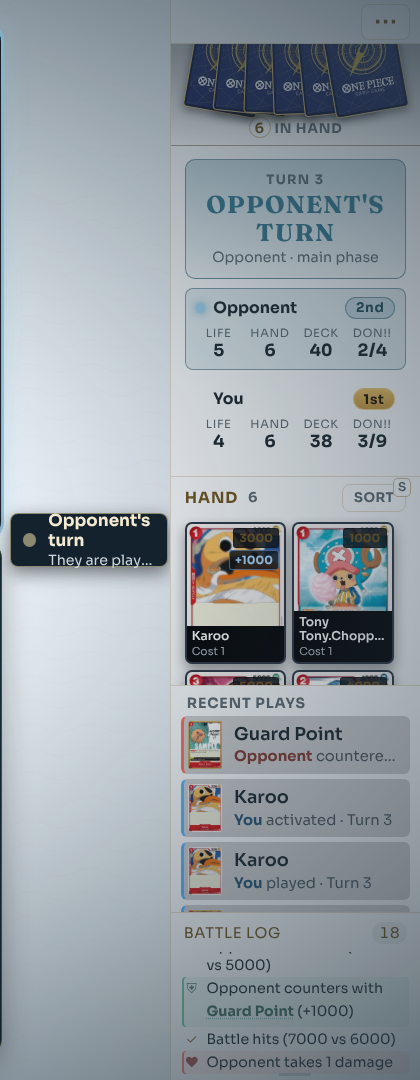
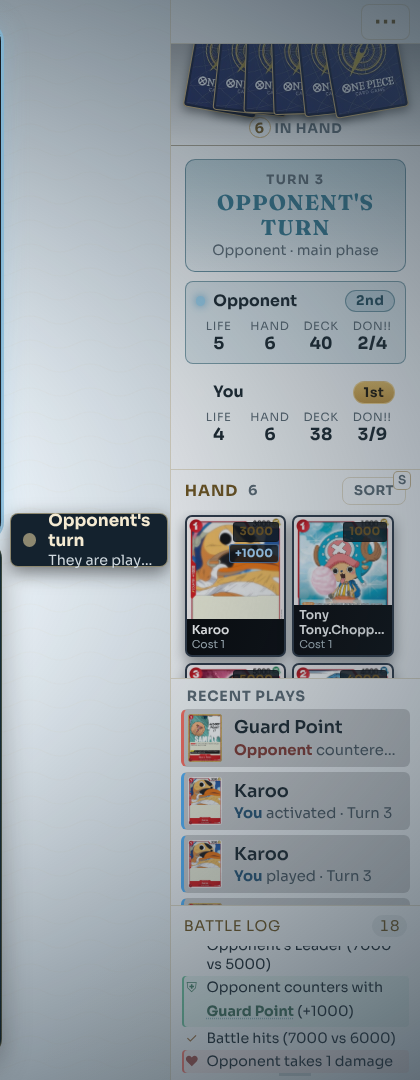
Turn heading: wider safety margin at the narrowest column (#774)
Cap at 11cqi so OPPONENT'S keeps ~20% spare room, covering wider
fallback fonts; refreshed after screenshots.

Claude-Session: https://claude.ai/code/session_01YAFSoFyVk5VVToJuGMzBQ1

diff --git a/duel-web/src/board.css b/duel-web/src/board.css
@@ -1698,7 +1698,7 @@ body.is-panel-drag * {
 .turn-banner-title {
   font-family: var(--font-display);
   /* The cap keeps the longest word ("OPPONENT'S") inside the card at the narrowest column; wide columns keep the clamp. */
-  font-size: min(clamp(1.1rem, 1.45vw, 1.65rem), 12.5cqi);
+  font-size: min(clamp(1.1rem, 1.45vw, 1.65rem), 11cqi);
   max-width: 100%;
   overflow-wrap: break-word;
   line-height: 1.15;
@@ -2804,7 +2804,7 @@ body.is-panel-resize-row .col-cut {
   }
 
   .turn-banner-title {
-    font-size: min(0.95rem, 12.5cqi);
+    font-size: min(0.95rem, 11cqi);
   }
 
   .turn-player-stats {
@@ -4645,7 +4645,7 @@ body.is-panel-resize-row .col-cut {
   }
 
   .arena.arena-lp .turn-banner-title {
-    font-size: min(0.9rem, 12.5cqi);
+    font-size: min(0.9rem, 11cqi);
   }
 
   .arena.arena-lp .arena-rail .intent-bar {
